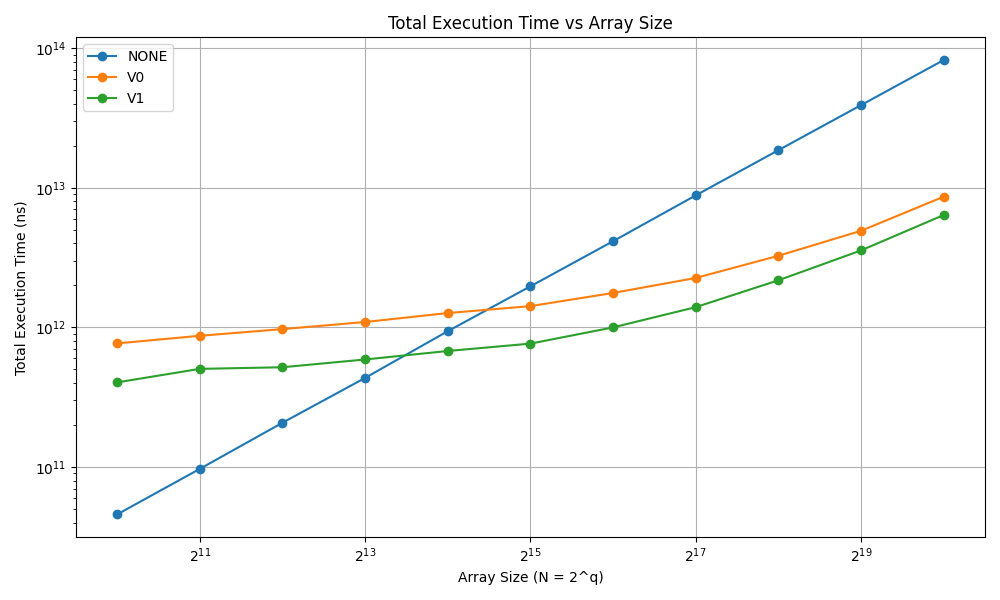
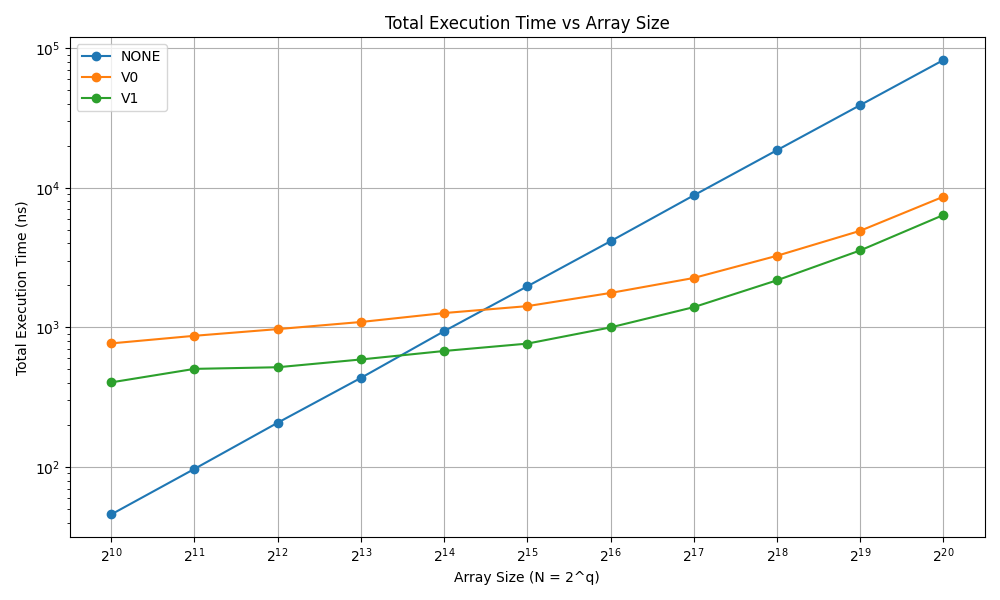
Add script for test submition in slurm

diff --git a/benchmarks/export_benchmark_results.py b/benchmarks/export_benchmark_results.py
@@ -4,7 +4,7 @@ import matplotlib.pyplot as plt
 import pandas as pd
 
 
-def plot_total_execution_time_vs_size(csv_path, output_dir, output_filename):
+def plot_execution_time_vs_size(csv_path, output_dir, output_filename):
     # Load CSV data
     df = pd.read_csv(csv_path)
 
@@ -12,12 +12,10 @@ def plot_total_execution_time_vs_size(csv_path, output_dir, output_filename):
     if not {'q', 'kernel', 'time'}.issubset(df.columns):
         raise ValueError("CSV must have columns: q, kernel, time")
 
-    # Compute array size and convert time to nanoseconds
-    df["Size"] = 2 ** df["q"]
-    df["Time (ns)"] = df["time"] * 1e9
+    # Compute array size and convert time to milliseconds
 
     # Sort and group
-    df.sort_values(by=["kernel", "Size"], inplace=True)
+    df.sort_values(by=["kernel", "q"], inplace=True)
 
     # Plot
     plt.figure(figsize=(10, 6))
@@ -25,8 +23,8 @@ def plot_total_execution_time_vs_size(csv_path, output_dir, output_filename):
         sub_df = df[df["kernel"] == kernel]
         if not sub_df.empty:
             plt.plot(
-                sub_df["Size"],
-                sub_df["Time (ns)"],
+                sub_df["q"],
+                sub_df["time"],
                 marker='o',
                 label=kernel.upper()
             )
@@ -36,8 +34,9 @@ def plot_total_execution_time_vs_size(csv_path, output_dir, output_filename):
     plt.title("Total Execution Time vs Array Size")
     plt.legend()
     plt.grid(True)
-    plt.xscale("log", base=2)
-    plt.yscale("log")
+    q_values = sorted(df["q"].unique())
+    plt.xticks(ticks=q_values, labels=[f"$2^{{{q}}}$" for q in q_values])
+    plt.yscale("log", base=10)
     plt.tight_layout()
 
     os.makedirs(output_dir, exist_ok=True)
@@ -60,9 +59,6 @@ def export_speedup_table(csv_path, data_dir, q_value, output_filename):
     if q_df.empty:
         raise ValueError(f"No data found for q = {q_value}")
 
-    # Convert time to milliseconds
-    q_df["Time (ms)"] = q_df["time"] * 1e3
-
     # Sort kernels by assumed version order
     def kernel_sort_key(k):
         if k == "none":
@@ -74,7 +70,7 @@ def export_speedup_table(csv_path, data_dir, q_value, output_filename):
     q_df.sort_values(by="kernel", key=lambda col: col.map(kernel_sort_key), inplace=True)
 
     # Compute speedups
-    times = q_df["Time (ms)"].values
+    times = q_df["time"].values
     kernels = q_df["kernel"].tolist()
 
     step_speedups = [""]
@@ -108,5 +104,5 @@ if __name__ == "__main__":
     parser.add_argument("data_dir", help="Directory to save data files (.dat)")
     args = parser.parse_args()
 
-    plot_total_execution_time_vs_size(args.csv_path, args.plot_dir, "execution_time_vs_size.png")
+    plot_execution_time_vs_size(args.csv_path, args.plot_dir, "execution_time_vs_size.png")
     export_speedup_table(args.csv_path, args.data_dir, 20, "speedup_table.dat")
